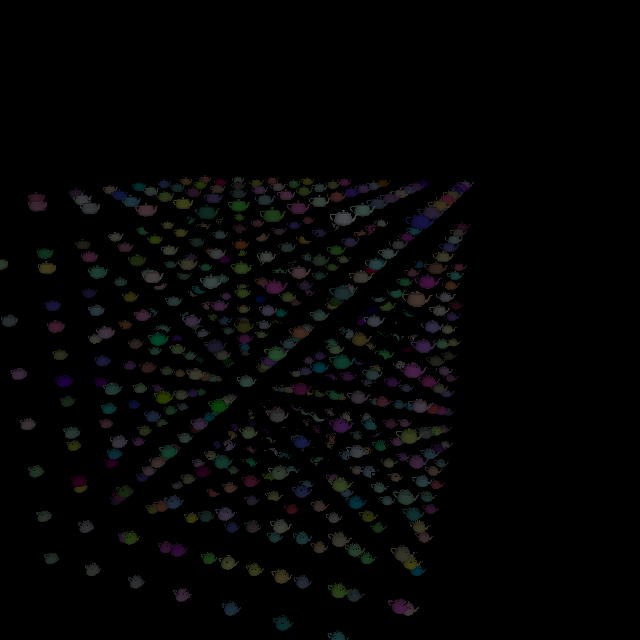
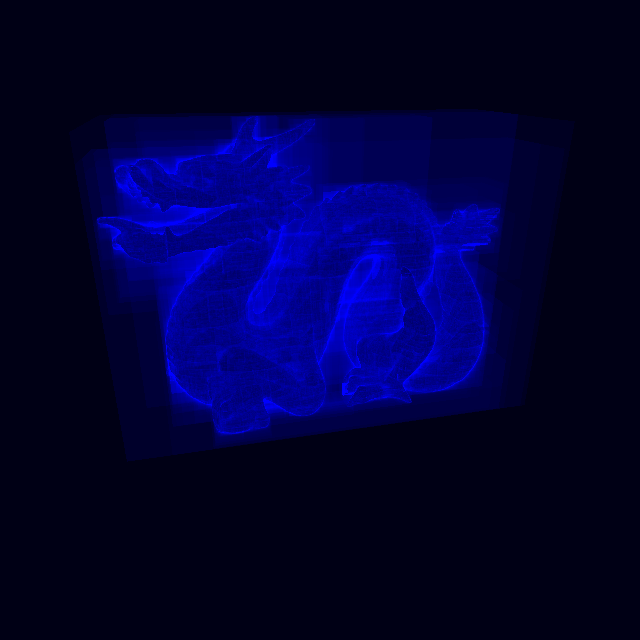
added splitter (gives nullpointer)

diff --git a/src/acceleration/SAHSplitter.java b/src/acceleration/SAHSplitter.java
@@ -1,0 +1,76 @@
+package acceleration;
+
+import java.util.ArrayList;
+import java.util.List;
+
+import math.Point;
+import shape.Shape;
+import util.Pair;
+
+public class SAHSplitter extends Splitter {
+
+	static {
+		instance = new SAHSplitter();
+	}
+	
+	private SAHSplitter(){
+		super();
+	}
+	
+	@Override
+	public Pair<BV, BV> split(BV parent) {
+		double distance = getCurrentSplitValue(parent.getRightTop()) - getCurrentSplitValue(parent.getLeftBottom());
+		List<Double> binBoundaries = new ArrayList<>();
+		List<BV> bins = new ArrayList<>();
+		for (int i = 1; i <= nb_bins_SAH; i++) {
+			binBoundaries.add(getCurrentSplitValue(parent.getLeftBottom()) + distance * i / nb_bins_SAH);
+			Point leftBottom = new Point(Double.MAX_VALUE, Double.MAX_VALUE, Double.MAX_VALUE);
+			Point rightTop = new Point(-Double.MAX_VALUE, -Double.MAX_VALUE, -Double.MAX_VALUE);
+			BV binBox = new BV(leftBottom, rightTop);
+			bins.add(binBox);
+		}
+		for (Shape shape : parent.getShapes()) {
+			for (int i = 0; i < nb_bins_SAH; i++) {
+				if (getCurrentSplitValue(shape.getCentric()) < binBoundaries.get(i)) {
+					bins.get(i).expand(shape.createNewBV());
+					break;
+				}
+			}
+		}
+		double cost = Double.MAX_VALUE;
+		Pair<BV, BV> currentBest = new Pair<>(null, null);
+
+		for (int i = 1; i < nb_bins_SAH; i++) {
+			Point leftBottom = new Point(Double.MAX_VALUE, Double.MAX_VALUE, Double.MAX_VALUE);
+			Point rightTop = new Point(-Double.MAX_VALUE, -Double.MAX_VALUE, -Double.MAX_VALUE);
+			BV newFirst = new BV(leftBottom, rightTop);
+			BV newSecond = new BV(leftBottom, rightTop);
+			for (int j = 0; j < i; j++) {
+				newFirst.expand(bins.get(j));
+			}
+			for (int j = i; j < nb_bins_SAH; j++) {
+				newSecond.expand(bins.get(j));
+			}
+			double costNewFirst = newFirst.getSurfaceArea() * newFirst.getShapes().size() / parent.getSurfaceArea();
+			if (Double.isNaN(costNewFirst)) {
+				costNewFirst = 0;
+			}
+			double costNewSecond = newSecond.getSurfaceArea() * newSecond.getShapes().size() / parent.getSurfaceArea();
+			if (Double.isNaN(costNewSecond)) {
+				costNewSecond = 0;
+			}
+			double newCost = costNewFirst + costNewSecond;
+
+			if (newCost < cost) {
+				cost = newCost;
+				currentBest = new Pair<>(newFirst, newSecond);
+			}
+		}
+		currentSplit = (currentSplit + 1) % 3;
+		return currentBest;
+	}
+
+	public static Splitter get() {
+		return instance;
+	}
+}

diff --git a/src/acceleration/BVH.java b/src/acceleration/BVH.java
@@ -21,12 +21,14 @@ public class BVH {
 	private static final int nb_bins_SAH = 4;
 	private static final int nb_shapes = 8;
 
+	private static Splitter splitter = GeometricalSplitter.get();
 	private static int currentSplit = 0;
 
 	@SuppressWarnings("unchecked")
 	public static List<ShapeInstance> createBVH(List<ShapeInstance> wrappers) {
 		List<BVInstance> result = new ArrayList<>();
 		for (ShapeInstance wrapper : wrappers) {
+			System.out.println("started BVH");
 			BV bv = wrapper.shape.createNewBV();
 			result.add(new BVInstance(bv, wrapper.transformation, wrapper.texture));
 		}
@@ -56,7 +58,7 @@ public class BVH {
 			BV parent = toSplit.get(0);
 
 			if (parent.getShapes().size() > nb_shapes) {
-				Pair<BV, BV> children = splitGeometrically(parent);
+				Pair<BV, BV> children = splitter.split(parent);
 				BV first = children.getFirst();
 				BV second = children.getSecond();
 
@@ -67,7 +69,6 @@ public class BVH {
 					toSplit.add(1, first);
 					toSplit.add(1, second);
 				}
-
 			}
 			toSplit.remove(0);
 		}
@@ -86,12 +87,10 @@ public class BVH {
 		toSplit.add(superbv);
 		while (!toSplit.isEmpty()) {
 			BV parent = toSplit.get(0);
-
 			if (parent.getShapes().size() > nb_shapes) {
-				Pair<BV, BV> children = splitGeometrically(parent);
+				Pair<BV, BV> children = splitter.split(parent);
 				BV first = children.getFirst();
 				BV second = children.getSecond();
-
 				if (first.getShapes().size() != 0 && second.getShapes().size() != 0) {
 					parent.clearShapes();
 					parent.addChild(first);
@@ -99,7 +98,6 @@ public class BVH {
 					toSplit.add(1, first);
 					toSplit.add(1, second);
 				}
-
 			}
 			toSplit.remove(0);
 		}

diff --git a/src/acceleration/MedianSplitter.java b/src/acceleration/MedianSplitter.java
@@ -1,0 +1,51 @@
+package acceleration;
+
+import java.util.ArrayList;
+import java.util.Arrays;
+import java.util.List;
+
+import math.Point;
+import shape.Shape;
+import util.Pair;
+
+public class MedianSplitter extends Splitter {
+
+	static {
+		instance = new MedianSplitter();
+	}
+	
+	private MedianSplitter(){
+		super();
+	}
+	
+	@Override
+	public Pair<BV, BV> split(BV parent) {
+		List<Double> xs = new ArrayList<>();
+		for (Shape shape : parent.getShapes()) {
+			xs.add(getCurrentSplitValue(shape.getCentric()));
+		}
+		Double[] xs2 = new Double[parent.getShapes().size()];
+		xs2 = xs.toArray(xs2);
+		Arrays.sort(xs2);
+		double median = xs2[xs2.length / 2];
+		Point leftbottom = new Point(Double.MAX_VALUE, Double.MAX_VALUE, Double.MAX_VALUE);
+		Point righttop = new Point(-Double.MAX_VALUE, -Double.MAX_VALUE, -Double.MAX_VALUE);
+		BV first = new BV(leftbottom, righttop);
+		BV second = new BV(leftbottom, righttop);
+		for (Shape shape : parent.getShapes()) {
+			if ((currentSplit == SPLIT_X && shape.getCentric().x < median)
+					|| (currentSplit == SPLIT_Y && shape.getCentric().y < median)
+					|| (currentSplit == SPLIT_Z && shape.getCentric().z < median)) {
+				first.expand(shape.createNewBV());
+			} else {
+				second.expand(shape.createNewBV());
+			}
+		}
+		currentSplit = (currentSplit + 1) % 3;
+		return new Pair<BV, BV>(first, second);
+	}
+
+	public static Splitter get() {
+		return instance;
+	}
+}

diff --git a/src/acceleration/GeometricalSplitter.java b/src/acceleration/GeometricalSplitter.java
@@ -1,0 +1,43 @@
+package acceleration;
+
+import math.Point;
+import shape.Shape;
+import util.Pair;
+
+public class GeometricalSplitter extends Splitter {
+	
+	static {
+		instance = new GeometricalSplitter();
+	}
+
+	private GeometricalSplitter(){
+		super();
+	};
+	
+	@Override
+	public Pair<BV, BV> split(BV parent) {
+		Point leftBottom = new Point(Double.MAX_VALUE, Double.MAX_VALUE, Double.MAX_VALUE);
+		Point rightTop = new Point(-Double.MAX_VALUE, -Double.MAX_VALUE, -Double.MAX_VALUE);
+		BV first = new BV(leftBottom, rightTop);
+		BV second = new BV(leftBottom, rightTop);
+		double middle = (getCurrentSplitValue(parent.getLeftBottom()) + getCurrentSplitValue(parent.getRightTop()))
+				/ 2;
+		for (Shape shape : parent.getShapes()) {
+			if ((currentSplit == SPLIT_X && shape.getCentric().x < middle)
+					|| (currentSplit == SPLIT_Y && shape.getCentric().y < middle)
+					|| (currentSplit == SPLIT_Z && shape.getCentric().z < middle)) {
+				first.expand(shape.createNewBV());
+			} else {
+				second.expand(shape.createNewBV());
+			}
+		}
+		currentSplit = (currentSplit + 1) % 3;
+
+		return new Pair<BV, BV>(first, second);
+	}
+	
+	public static Splitter get() {
+		return instance;
+	}
+
+}

diff --git a/src/acceleration/Splitter.java b/src/acceleration/Splitter.java
@@ -1,0 +1,34 @@
+package acceleration;
+
+import math.Point;
+import util.Pair;
+
+public abstract class Splitter {
+	protected static final int SPLIT_X = 0;
+	protected static final int SPLIT_Y = 1;
+	protected static final int SPLIT_Z = 2;
+	protected static int currentSplit = 0;
+
+	protected static final int nb_shapes = 8;
+	protected static final int nb_bins_SAH = 4;
+
+	
+	static Splitter instance;
+	
+	public abstract Pair<BV, BV> split(BV parent);
+	
+	public static Splitter get() {
+		return instance;
+	}
+	
+	protected static double getCurrentSplitValue(Point p) {
+		if (currentSplit == SPLIT_X) {
+			return p.x;
+		} else if (currentSplit == SPLIT_Y) {
+			return p.y;
+		} else if (currentSplit == SPLIT_Z) {
+			return p.z;
+		}
+		return 0.0;
+	}
+}

diff --git a/src/main/Renderer.java b/src/main/Renderer.java
@@ -67,9 +67,9 @@ public class Renderer {
 		options.put("fov", 			RenderConstants.DEFAULT_FOV);
 		options.put("sensitivity", 	RenderConstants.DEFAULT_SENSITIVITY);
 		options.put("gamma", 		RenderConstants.DEFAULT_GAMMA);
-		options.put("mode", 		RenderMode.STANDARD);
+		options.put("mode", 		RenderMode.ACCELERATION);
 		options.put("sample_dim", 	1);
-		options.put("scene", 		SceneBuilder.getTeapotsScene());
+		options.put("scene", 		SceneBuilder.getTestScene());
 		options.put("filename", 	"output.png");
 		options.put("gui", 			true);
 		options.put("quiet", 		false);
